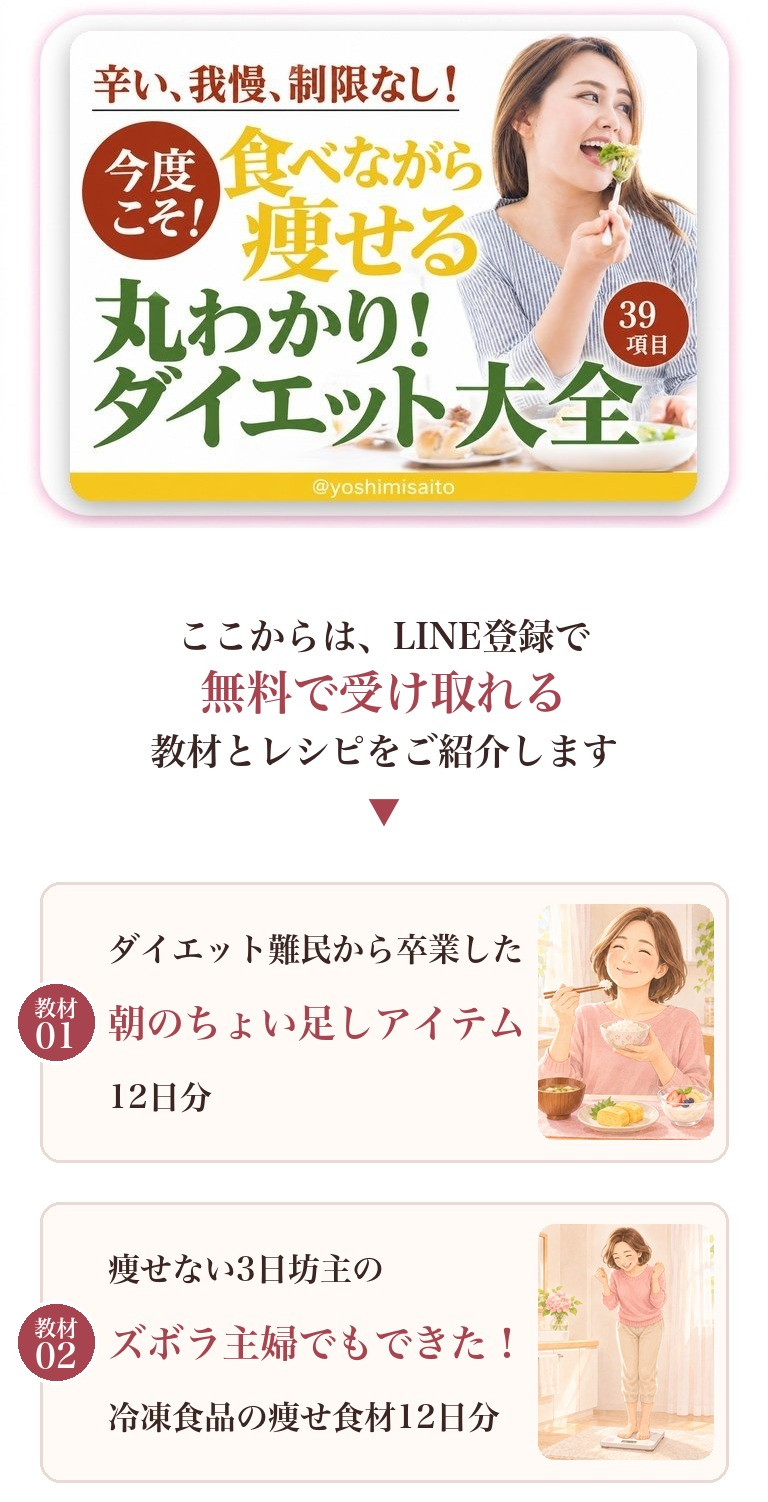
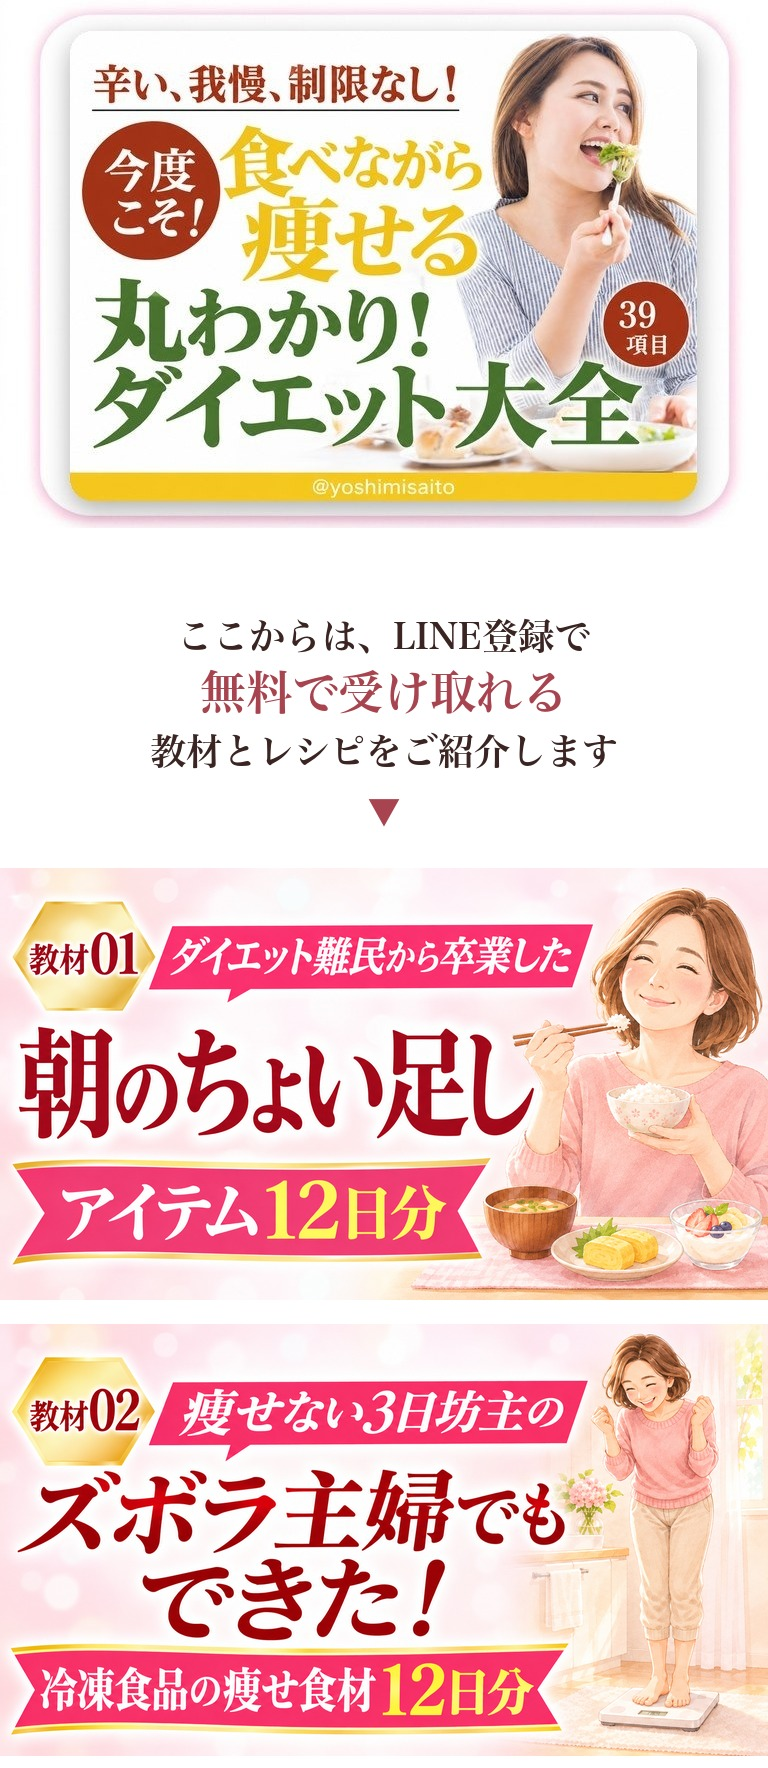
確認用ページ：教材の紹介を4枚の画像カードに差し替え

diff --git a/preview/index.html b/preview/index.html
@@ -2,4 +2,4 @@
 <style>body{margin:0;background:#fff}.w{max-width:480px;margin:0 auto}.w img{display:block;width:100%}
 .sticky{position:fixed;left:0;right:0;bottom:0;background:rgba(255,255,255,.95);padding:10px 14px;border-top:3px solid #f6b3c0}
 .sticky a{position:relative;display:flex;align-items:center;justify-content:center;max-width:420px;margin:0 auto;background:#06c755;color:#fff;font-weight:800;font-size:16px;white-space:nowrap;padding:0 40px 0 62px;height:58px;border-radius:999px;text-decoration:none;font-family:"Hiragino Sans",sans-serif;box-shadow:0 5px 0 #04964a;border:2px solid #7ce6a6;box-sizing:border-box}.sticky .ic{position:absolute;left:12px;top:50%;transform:translateY(-50%);width:42px;height:38px;background:#fff;border-radius:13px;color:#06c755;font-size:13px;font-weight:900;display:flex;align-items:center;justify-content:center;letter-spacing:-.5px}.sticky .ic:after{content:"";position:absolute;left:9px;bottom:-7px;border-left:6px solid transparent;border-right:6px solid transparent;border-top:9px solid #fff;transform:skewX(20deg)}.sticky .ar{position:absolute;right:18px;top:50%;transform:translateY(-50%);border-left:14px solid #fff;border-top:10px solid transparent;border-bottom:10px solid transparent}</style></head>
-<body><div class="w"><img src="q01.jpg?v=14" alt=""><a href="https://lin.ee/VeUwJHO"><img src="q02.jpg?v=14" alt=""></a><img src="q03.jpg?v=14" alt=""><img src="q04.jpg?v=14" alt=""><img src="q05.jpg?v=14" alt=""><img src="q06.jpg?v=14" alt=""><img src="q07.jpg?v=14" alt=""><img src="q08.jpg?v=14" alt=""><img src="q09.jpg?v=14" alt=""><img src="q10.jpg?v=14" alt=""><a href="https://lin.ee/VeUwJHO"><img src="q11.jpg?v=14" alt=""></a><img src="q12.jpg?v=14" alt=""><img src="q13.jpg?v=14" alt=""><img src="q14.jpg?v=14" alt=""><img src="q15.jpg?v=14" alt=""><img src="q16.jpg?v=14" alt=""><a href="https://lin.ee/VeUwJHO"><img src="q17.jpg?v=14" alt=""></a><img src="q18.jpg?v=14" alt=""><a href="https://lin.ee/VeUwJHO"><img src="q19.jpg?v=14" alt=""></a></div><div class="sticky"><a href="https://lin.ee/VeUwJHO"><span class="ic">LINE</span>教材＋レシピを無料で受け取る<span class="ar"></span></a></div></body></html>
+<body><div class="w"><img src="q01.jpg?v=15" alt=""><a href="https://lin.ee/VeUwJHO"><img src="q02.jpg?v=15" alt=""></a><img src="q03.jpg?v=15" alt=""><img src="q04.jpg?v=15" alt=""><img src="q05.jpg?v=15" alt=""><img src="q06.jpg?v=15" alt=""><img src="q07.jpg?v=15" alt=""><img src="q08.jpg?v=15" alt=""><img src="q09.jpg?v=15" alt=""><img src="q10.jpg?v=15" alt=""><a href="https://lin.ee/VeUwJHO"><img src="q11.jpg?v=15" alt=""></a><img src="q12.jpg?v=15" alt=""><img src="q13.jpg?v=15" alt=""><img src="q14.jpg?v=15" alt=""><img src="q15.jpg?v=15" alt=""><img src="q16.jpg?v=15" alt=""><a href="https://lin.ee/VeUwJHO"><img src="q17.jpg?v=15" alt=""></a><img src="q18.jpg?v=15" alt=""><a href="https://lin.ee/VeUwJHO"><img src="q19.jpg?v=15" alt=""></a></div><div class="sticky"><a href="https://lin.ee/VeUwJHO"><span class="ic">LINE</span>教材＋レシピを無料で受け取る<span class="ar"></span></a></div></body></html>
